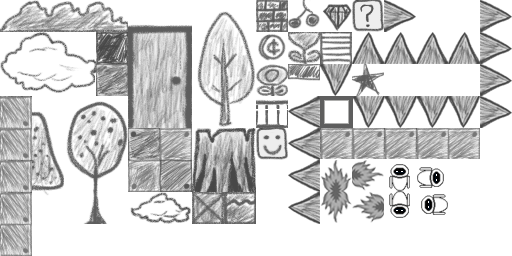
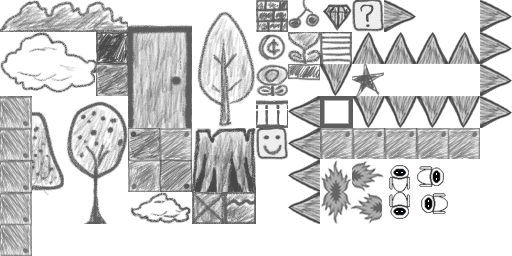
Corrected the Tilesheet - Arpit
Player and other tiles were not getting loaded!!!

Changed region(s): [[0.625, 0.625, 0.875, 0.875]]

diff --git a/GravityTwist/GameLayer.mm b/GravityTwist/GameLayer.mm
@@ -19,7 +19,7 @@
 #import "AppDelegate.h"
 #import "ButtonData.h"
 #import "GameObject.h"
-
+ 
 //static NSString *levelFileName;
 
 @implementation GameLayer
@@ -62,7 +62,7 @@ CCSpriteBatchNode *parent;
         playerImpulse = 0.5f;
         gravityRemovalFactor = GRAVITY;
         
-        spriteTextureName = @"Tilesheet_v1.png";
+        spriteTextureName = @"Tilesheet.png";
         
         //CCSpriteBatchNode *parent = [CCSpriteBatchNode batchNodeWithFile:spriteTextureName capacity:100];
         parent = [CCSpriteBatchNode batchNodeWithFile:spriteTextureName capacity:100];
